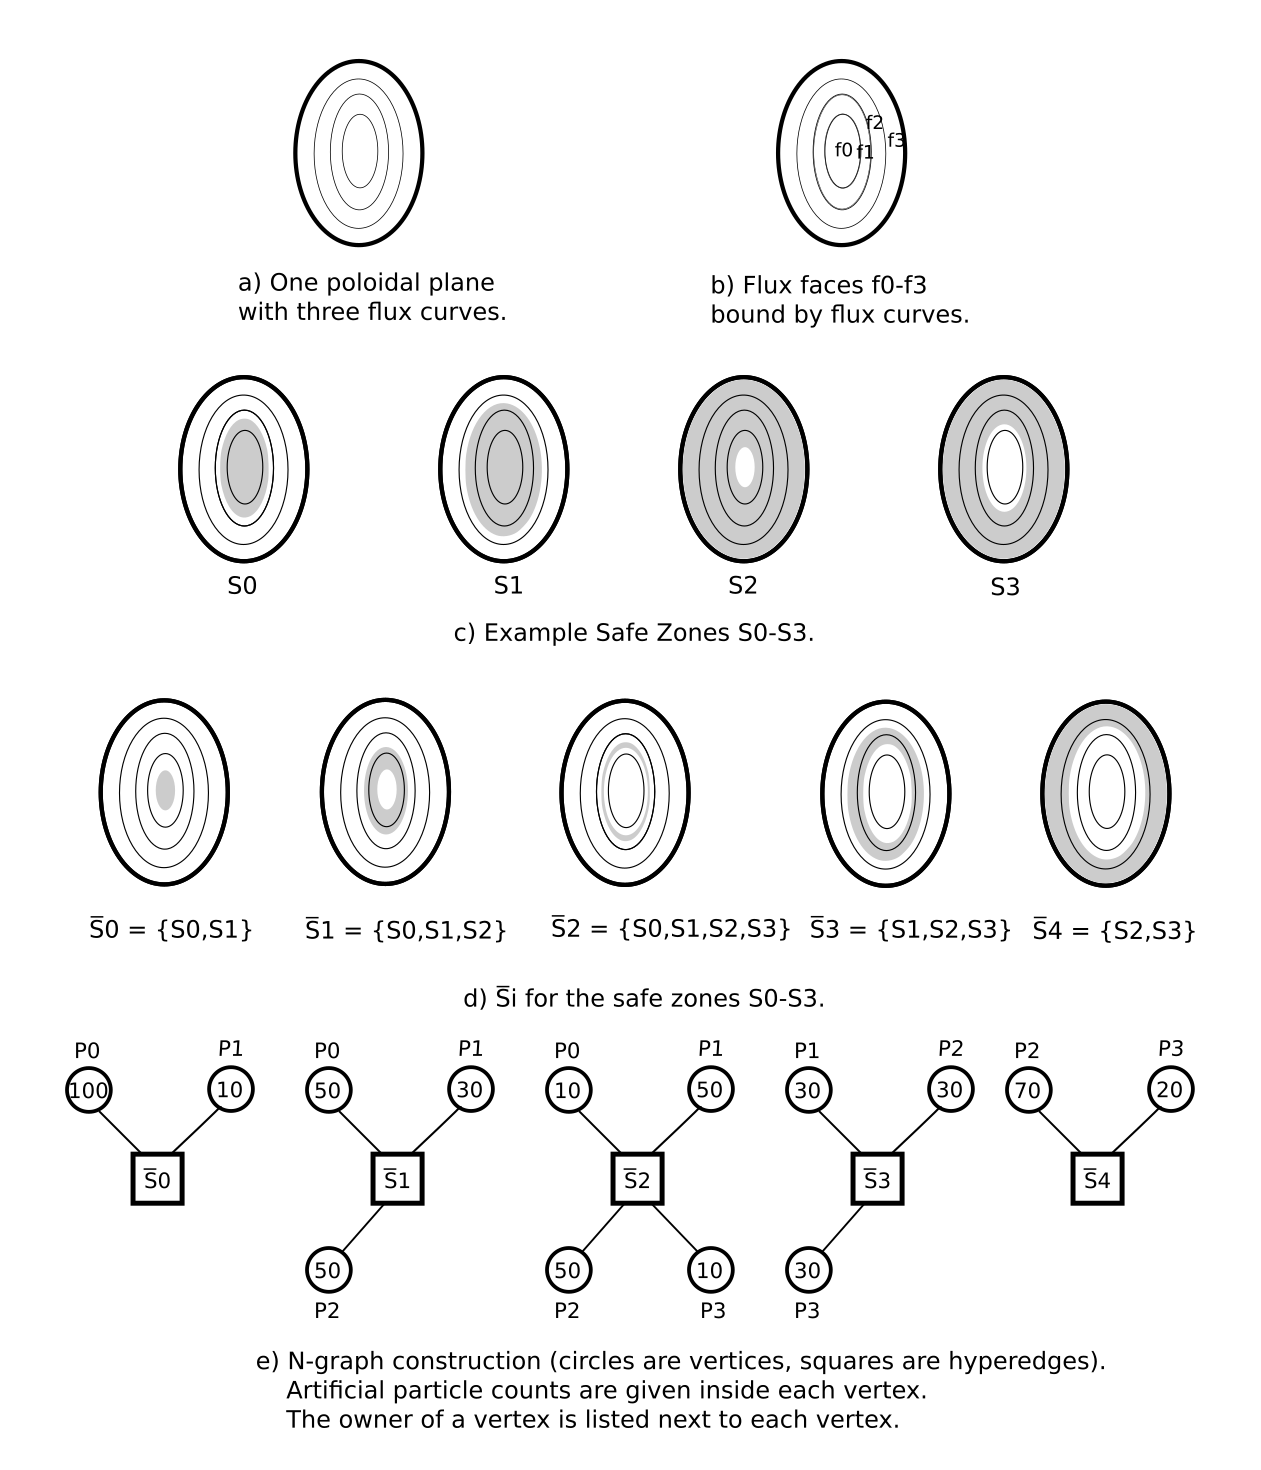
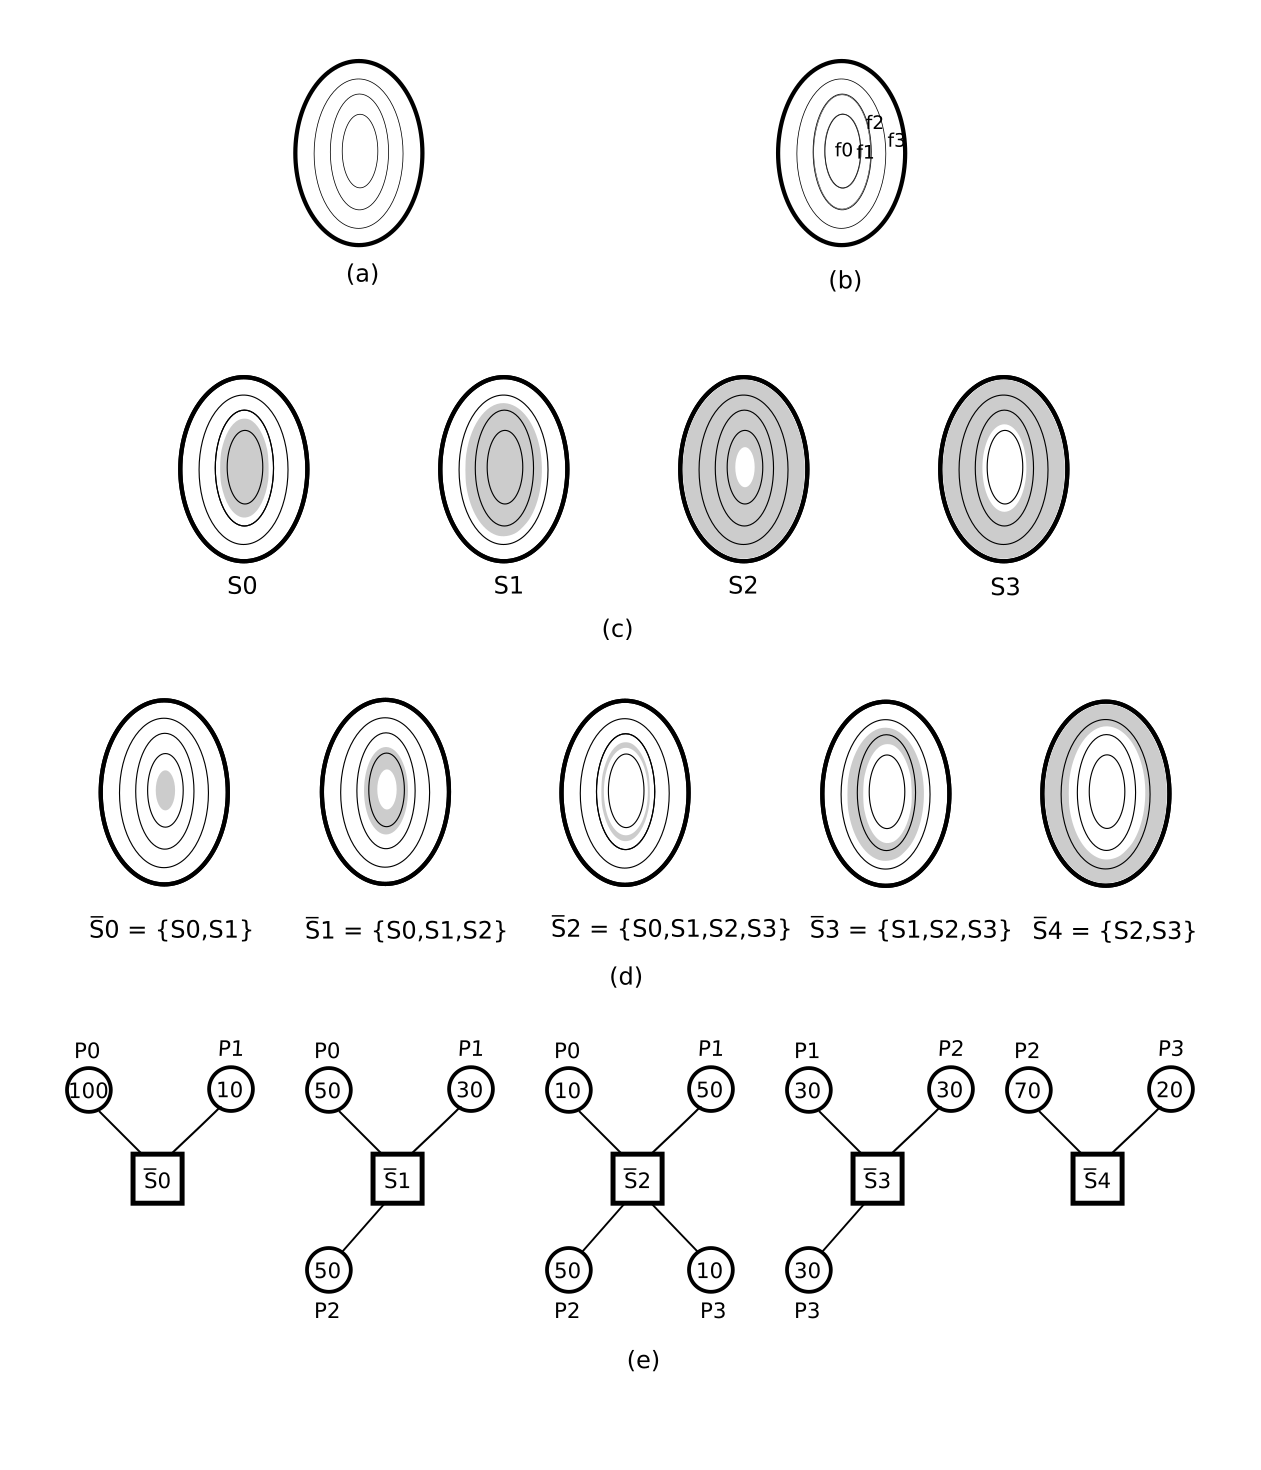
Move captions to the figure caption

diff --git a/scala18/engpar_scala18.tex b/scala18/engpar_scala18.tex
@@ -230,7 +230,7 @@ on this graph.
   \centering
   \includegraphics[width=.4\textwidth]{../figures/xgcm_ngraph_construction.png}
   \caption{An example of overlapping safe zones and the N-graph constructed from
-  them.{\color{red} Move embedded captions to here}}
+  them. A polodial plane (a) with four flux faces, f0-f3 (b). Safe zones around each flux face (c). Each overlapping set of safe zones (d) and the N-graph constructed from the overlapping safe zones (e). Vertices are circles, hyperedges are squares.}
   \label{fig:sbars}
 \end{figure}
 
